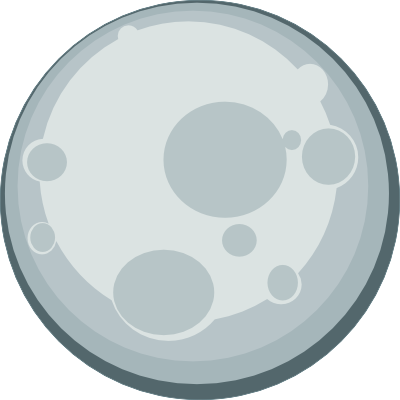
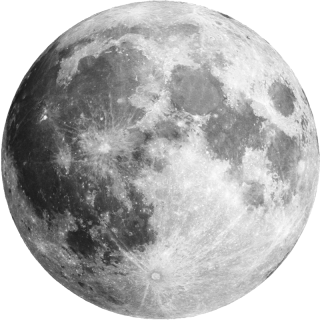
hi

diff --git a/projects/runtime/js/view/background.js b/projects/runtime/js/view/background.js
@@ -39,15 +39,39 @@ var background = function (window) {
             // TODO 1:
             // this currently fills the background with an obnoxious yellow;
             // you should modify both the height and color to suit your game
-            var backgroundFill = draw.rect(canvasWidth,canvasHeight,'yellow');
+            var backgroundFill = draw.rect(canvasWidth,canvasHeight,'black');
             background.addChild(backgroundFill);
             
             // TODO 2: - Add a moon and starfield
+
+            var moon = draw.bitmap("img/moon.png");
+        moon.x = 1500;
+        moon.y = 50;
+moon.scaleX = 1.0;
+moon.scaleY = 1.0;
+background.addChild(moon);
+
+for (var i = 0; i < 100; ++i) {
+var circle = draw.circle(10, "purple", "LightGray", 2);
+circle.x = canvasWidth * Math.random();
+circle.y = groundY * Math.random();
+background.addChild(circle);
+}
             
             
             // TODO 4: Part 1 - Add buildings!     Q: This is before TODO 4 for a reason! Why?
             
-            
+            var buildings = [];
+
+            for (var i = 0; i < 5; ++i) {
+                var buildingHeight = canvasHeight * Math.random();
+                var building = draw.rect(75, buildingHeight, "purple", "white", 1);
+                building.x = 200 * i;
+                building.y = groundY - buildingHeight;
+                background.addChild(building);
+                buildings.push(building);
+              }
+
             // TODO 3: Part 1 - Add a tree
             
             
@@ -66,6 +90,14 @@ var background = function (window) {
             
             
             // TODO 4: Part 2 - Parallax
+
+            for (var i = 0; i < buildings.length; i++) {
+                var eachElement = buildings[i];
+
+
+              
+                // code to do something with each element
+              }
             
 
         } // end of update function - DO NOT DELETE
